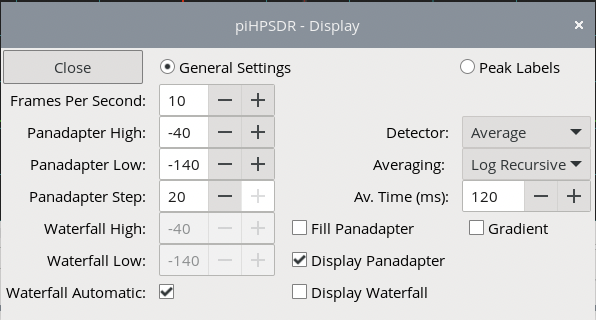
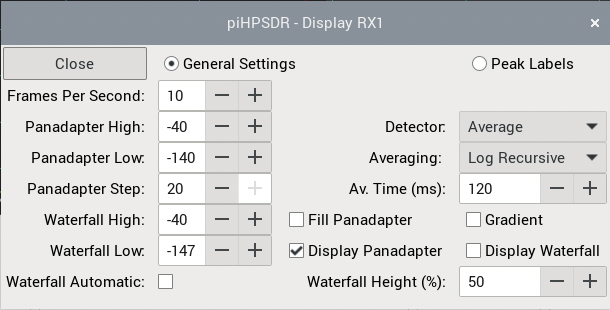
Manual: updated chapter on Display menu

Changed region(s): [[0.0, 0.0, 1.0, 1.0], [0.3624, 0.0581, 0.6342, 0.1161]]

diff --git a/release/LatexManual/piHPSDR-Manual.tex b/release/LatexManual/piHPSDR-Manual.tex
@@ -1623,9 +1623,8 @@ colour (yellow) in the waterfall. If the \rett{Waterfall Automatic:} box is chec
 If the \rett{Waterfall Automatic:} box is checked
 (see below), this spin button is greyed out and inactive.
 
-\rett{Waterfall Automatic:} If this box is checked (as is the case in
-Fig. \ref{fig:DisplayMenu}), the \rett{Waterfall High} and
-\rett{Waterfall Low} controls are inactive and the values are not used. Instead,
+\rett{Waterfall Automatic:} If this box is checked, the \rett{Waterfall High} and
+\rett{Waterfall Low} parameters are not used. Instead,
 the lowest and highest signal strength in the RX spectrum are automatically determined
 in each update of the waterfall, and these min/max values
 are then used instead of the waterfall High/Low control values to determine which
@@ -1650,11 +1649,19 @@ for the RX  spectrum scope (see chapter \ref{sec:FillingGradient}).
 \rett{Display Panadapter}. This option enables/disables the pan-adapter display
 on the RX panels. With the pan-adapter enabled, you can have the waterfall alone.
 
-\rett{Display Waterfall}. This option enables/disables the waterfall display
+\rett{Display Waterfall} This option enables/disables the waterfall display
 of the RX panels. Note if both the waterfall and the pan-adapter is disabled,
 there will simply be a large ,,hole'' in the \pH window. This makes little sense
 except on machines with very weak CPUs, since \textit{not} displaying neither waterfall
 nor pan-adapter saves some CPU time in the graphics back-end.
+
+\rett{Waterfall Height (\%):} This parameter can be chosen between 20 and 80
+(percent) with the spin button to the right of this label,
+and only has an effect if \textit{both} the panadapter and the waterfall are displayed.
+In this case, the parameter determines how much vertical space
+the waterfall gets, as a percentage of the total height of the panel for the
+receiver. The default value is 50 and means that panadapter and waterfall
+are of equal height.
 
 \subsection{Display Menu: Peak Labels}
 
@@ -4335,6 +4342,14 @@ The so-called PTT hang time stops transmitting if the TX sample buffer became em
 amount of time. Together with a too small TX latency value this leads to ``relay chatter'' during transmit
 if the network connection is sloppy because the T/R relay is frequently switched. With a decently chosen
 value of the TX latency, the PTT hang time is not very critical so I set it to 20 msec.
+
+\textbf{HL2 parameters/warnings displayed in the panadapter}
+
+The HL2 transfers some non-standard information about its state to the host program (\pH) that can be displayed.
+If the box \rett{Display PA current} is checked in the \bltt{Screen} menu (see Fig. \ref{fig:ScreenMenu}),
+the PA temperature and the PA current is shown, while transmitting, in the panadapter in the upper
+left corner in yellow color. If \rett{Display Warnings} is checked in the same menu, then in addition to
+the usual warning, also an underrun or an overflow of the FPGA TX sample buffer is reported.
 
 %%%%%%%%%%%%%%%%%%%%%%%%%%%%%%%%%%%%%%%%%%%%%%%%%%%%%%%%%%%%%%%%%%%%%%%%%%%%%%%%%%%%%%%%%%%%%%%%%%%%%%%%%%%%
 \section{RadioBerry support}
